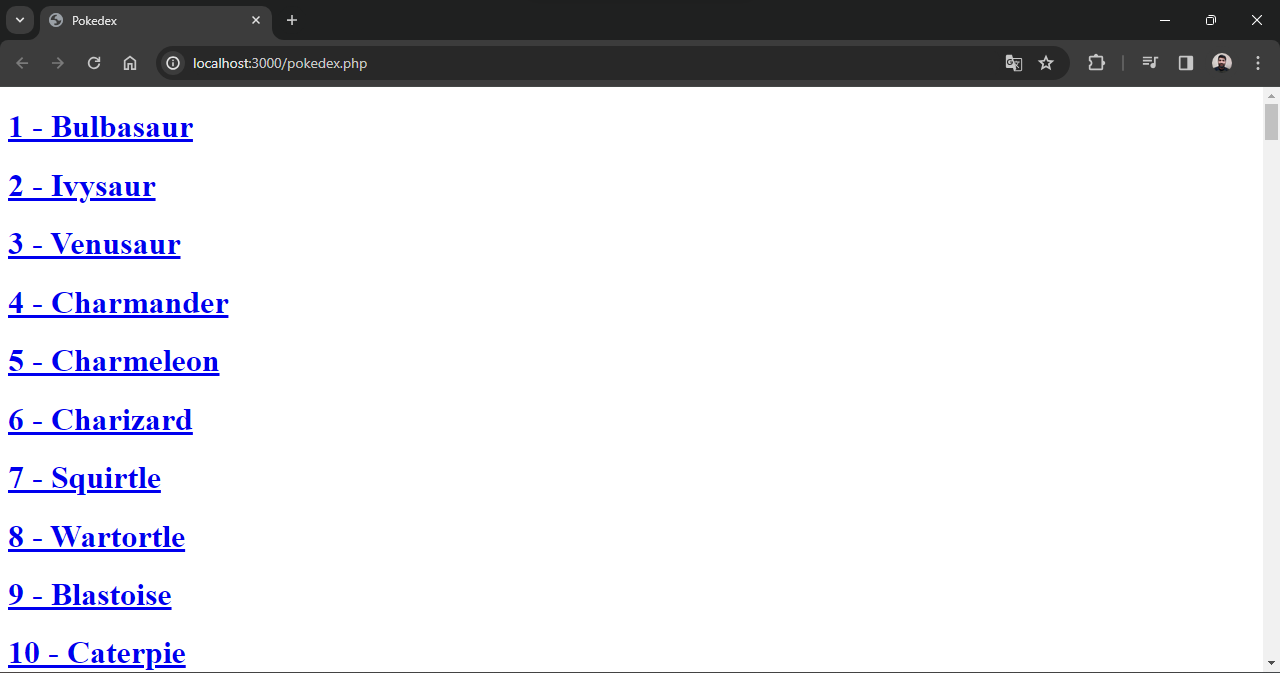
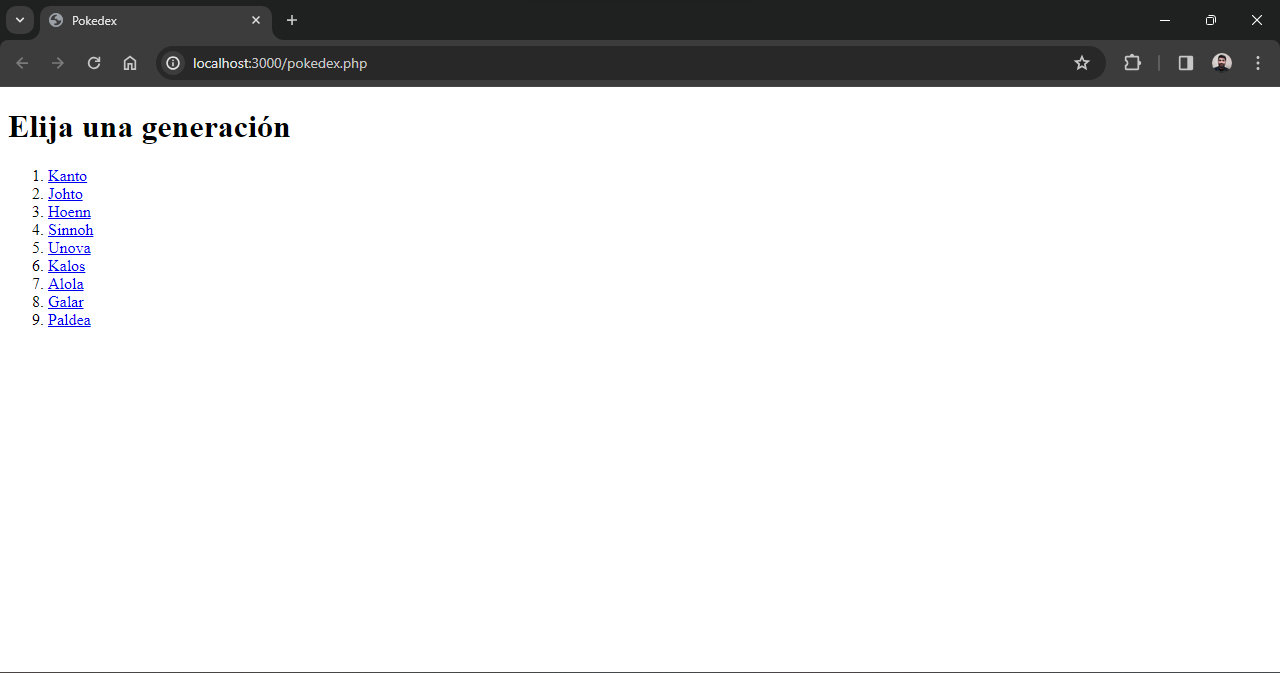
feat: Added regions with their pokemons, and pokemon's articles with sprites (v0.2.0)

diff --git a/generacion.php b/generacion.php
@@ -1,0 +1,66 @@
+<?php
+require "parciales/head.php";
+require "funciones.php";
+?>
+
+<body>
+    <?php
+    $id = $_GET["id"];
+    if (!$id || $id < 1 || $id > 9) {
+        header("Location: /pokedex.php");
+    }
+    switch ($id) {
+        case 1:
+            $region = "Kanto"; $first = 1; $last = 151;
+            break;
+        case 2:
+            $region = "Johto"; $first = 152; $last = 251;
+            break;
+        case 3:
+            $region = "Hoenn"; $first = 252; $last = 386;
+            break;
+        case 4:
+            $region = "Sinnoh"; $first = 387; $last = 493;
+            break;
+        case 5:
+            $region = "Unova"; $first = 494; $last = 649;
+            break;
+        case 6:
+            $region = "Kalos"; $first = 650; $last = 721;
+            break;
+        case 7:
+            $region = "Alola"; $first = 722; $last = 809;
+            break;
+        case 8:
+            $region = "Galar"; $first = 810; $last = 905;
+            break;
+        case 9:
+            $region = "Paldea"; $first = 906; $last = 1025;
+            break;
+    }
+    echo "<h1>" . $region . "</h1>";
+
+    $canal = curl_init();
+    for ($id = $first; $id <= $last; $id++) {
+        $url = "https://pokeapi.co/api/v2/pokemon/" . $id;
+
+        $respuesta = conexion($canal, $url);
+
+        if (curl_errno($canal)) {
+            $error = curl_error($canal);
+            echo "Error " . $error . " al conectarse a la API";
+        } else {
+
+
+            $pokemon = json_decode($respuesta, true);
+
+            echo '<a href="/pokemon.php?id=' . $pokemon["id"] . '">';
+            echo $pokemon["id"] . " - " . ucfirst($pokemon["name"]) . "<br>";
+            echo "</a>";
+        }
+    }
+    curl_close($canal);
+    ?>
+</body>
+
+</html>

diff --git a/pokedex.php b/pokedex.php
@@ -1,36 +1,28 @@
-<!DOCTYPE html>
-<html lang="en">
-
-<head>
-    <meta charset="UTF-8">
-    <meta name="viewport" content="width=device-width, initial-scale=1.0">
-    <title>Pokedex</title>
-</head>
+<?php
+require "parciales/head.php";
+require "funciones.php";
+?>
 
 <body>
     <?php
-    for ($id = 1; $id < 152; $id++) {
-        $canal = curl_init();
-        $url = "https://pokeapi.co/api/v2/pokemon/" . $id;
-
-        curl_setopt($canal, CURLOPT_URL, $url);
-        curl_setopt($canal, CURLOPT_RETURNTRANSFER, true);
-        $respuesta = curl_exec($canal);
-
-        if (curl_errno($canal)) {
-            $error = curl_error($canal);
-            echo "Error " . $error . " al conectarse a la API";
-        } else {
-            curl_close($canal);
-
-            $pokemon = json_decode($respuesta, true);
-
-            echo '<a href="https://www.pokemon.com/el/pokedex/' . $pokemon["name"] . '">';
-            echo "<h1>" . $pokemon["id"] . " - " . ucfirst($pokemon["name"]) . "</h1>";
-            echo "</a>";
-        }
-    }
+    $canal = curl_init();
     ?>
+
+    <h1>Elija una generación</h1>
+    <ol>
+        <?php for ($id = 1; $id < 10; $id++) : ?>
+            <li>
+                <a href="/generacion.php?id=<?= $id ?>">
+                    <?php
+                    $url = "https://pokeapi.co/api/v2/generation/" . $id;
+                    $respuesta = conexion($canal, $url);
+                    $generacion = json_decode($respuesta, true);
+                    echo ucfirst($generacion["main_region"]["name"]);
+                    ?>
+                </a>
+            </li>
+        <?php endfor ?>
+    </ol>
 </body>
 
 </html>

diff --git a/pokemon.php b/pokemon.php
@@ -1,0 +1,42 @@
+<?php
+require "parciales/head.php";
+require "funciones.php";
+?>
+
+<body>
+    <?php
+    $id = $_GET["id"];
+    if (!$id || $id < 1 || $id > 1025) {
+        header("Location: /pokedex.php");
+    }
+
+    $url = "https://pokeapi.co/api/v2/pokemon/" . $id;
+    $canal = curl_init();
+    $respuesta = conexion($canal, $url);
+
+    if (curl_errno($canal)) {
+        $error = curl_error($canal);
+        echo "Error " . $error . " al conectarse a la API";
+    } else {
+        curl_close($canal);
+
+        $pokemon = json_decode($respuesta, true);
+    ?>
+        <h1>
+            <?= $pokemon["id"] . " - " . ucfirst($pokemon["name"]) ?>
+        </h1>
+
+        <label for="front">
+            <img id="front" src="<?= $pokemon["sprites"]["front_default"] ?>">
+            Frente
+        </label>
+        <label for="back">
+            <img id="back" src="<?= $pokemon["sprites"]["back_default"] ?>">
+            Dorso
+        </label>
+    <?php
+    }
+    ?>
+</body>
+
+</html>

diff --git a/funciones.php b/funciones.php
@@ -1,0 +1,8 @@
+<?php
+
+function conexion($canal, $url)
+{
+    curl_setopt($canal, CURLOPT_URL, $url);
+    curl_setopt($canal, CURLOPT_RETURNTRANSFER, true);
+    return curl_exec($canal);
+}

diff --git a/parciales/head.php b/parciales/head.php
@@ -1,0 +1,8 @@
+<!DOCTYPE html>
+<html>
+
+<head>
+    <meta charset="UTF-8">
+    <meta name="viewport" content="width=device-width, initial-scale=1.0">
+    <title>Pokedex</title>
+</head>

diff --git a/README.md b/README.md
@@ -1,9 +1,11 @@
 # Pokedex
-Primer intento de una pokedex. Se listan todos los pokemones de Kanto con su link a la pokedex oficial.
+Esta pokedex al iniciar muestra la región de cada una de las 9 generaciones de pokemones. Al hacer clic en cualquiera de los enlaces, se muestra la lista de los pokemones originarios de esa región, cada uno de los cuales tiene un enlace al artículo de ese pokemon con sprite delantero y trasero.
 
-First approach to a pokedex. All Kanto pokemon are listed with their link to the official pokedex.
+This pokedex shows in the index the region of each of the 9 generations of pokemon. Clicking on any of the links displays the list of Pokémon original from that region, each of which has a link to that Pokémon's article with front and back sprites.
 
 ## Screenshots
 <img src="shots/pokedex01.png" width="50%">
 <br><br>
 <img src="shots/pokedex02.png" width="50%">
+<br><br>
+<img src="shots/pokedex03.png" width="50%">
